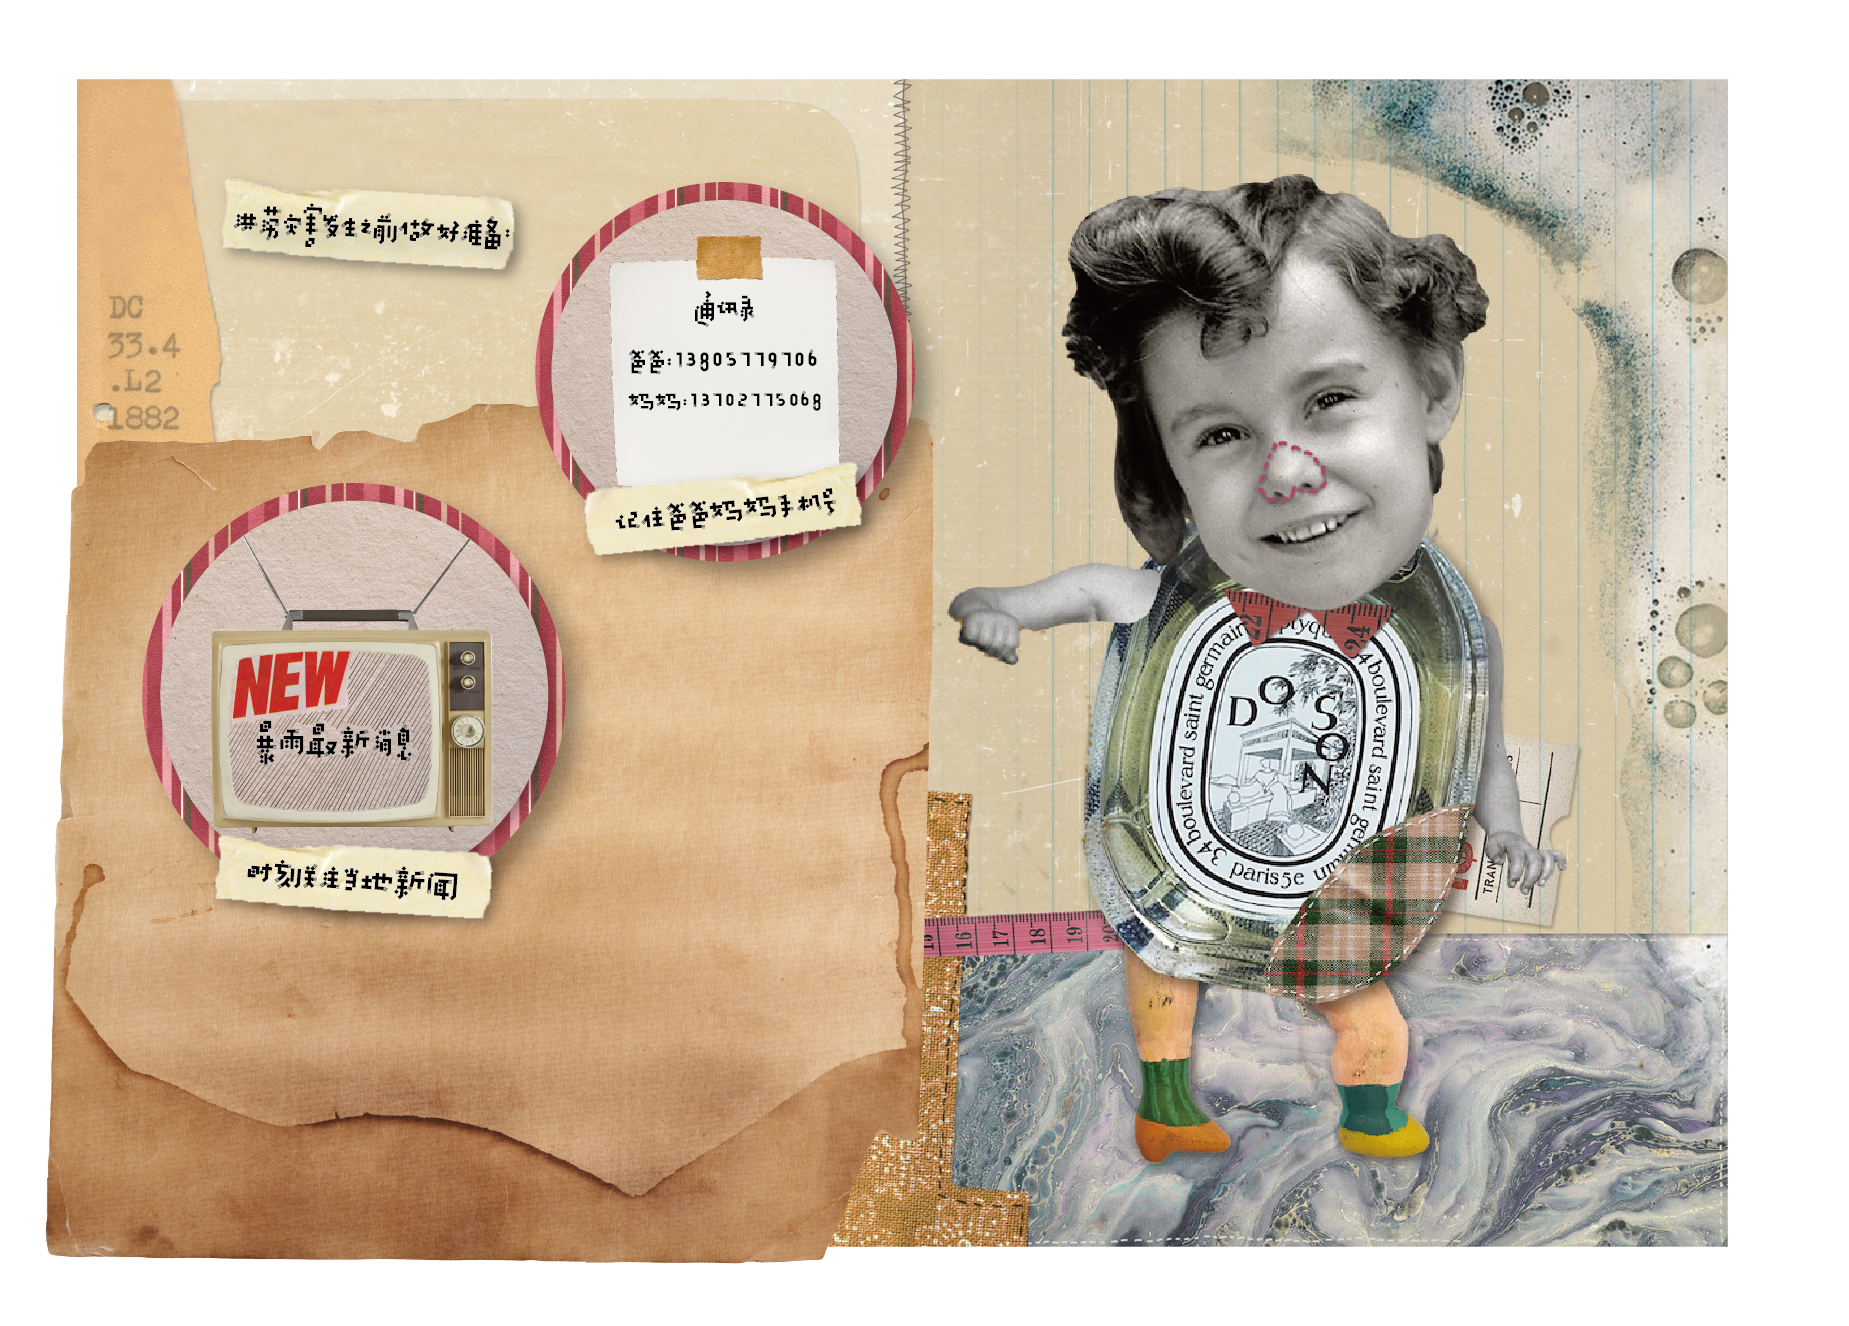
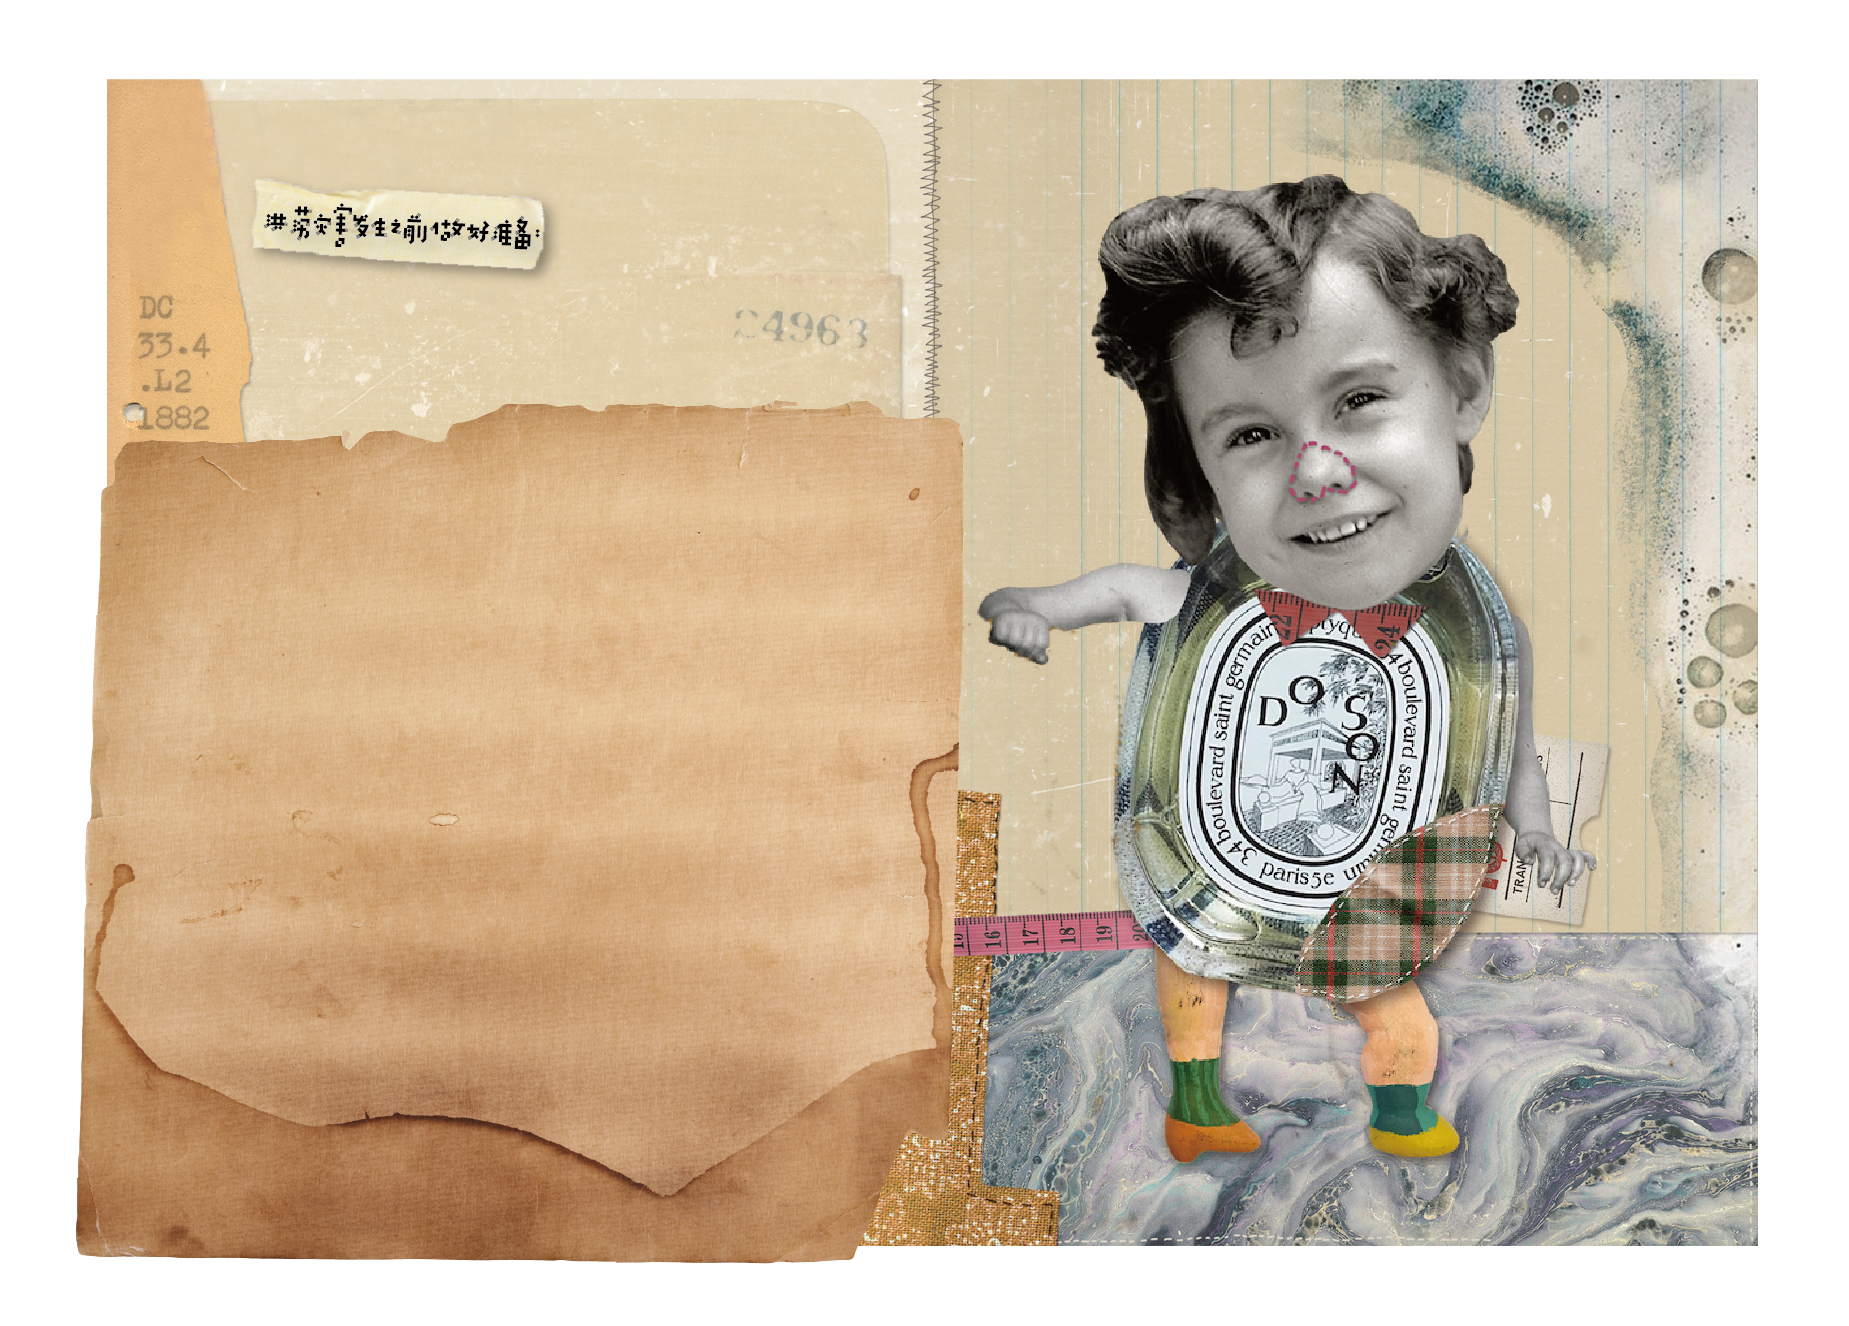
update

diff --git a/src/App.js b/src/App.js
@@ -12,27 +12,42 @@ import bg8 from './Img/8.png';
 import bg9 from './Img/9.png';
 import bg10 from './Img/10.png';
 
-import checklist from './Img/list.jpg';
+import bt21 from './Img/bt21.png';
+import bt22 from './Img/bt22.png';
+import bt23 from './Img/bt23.png';
 
-
-import bt2 from './Img/bt2.png';
 import bt61 from './Img/bt61.png';
+import bt61_right from './Img/bt61_right.png';
 import bt62 from './Img/bt62.png';
+import bt62_right from './Img/bt62_right.png';
 import bt63 from './Img/bt63.png';
+import bt63_right from './Img/bt63_right.png';
 import bt64 from './Img/bt64.png';
+import bt64_wrong from './Img/bt64_wrong.png';
 import bt65 from './Img/bt65.png';
+import bt65_right from './Img/bt65_right.png';
 import bt66 from './Img/bt66.png';
+import bt66_right from './Img/bt66_right.png';
 import bt71 from './Img/bt71.png';
 import bt72 from './Img/bt72.png';
 import bt81 from './Img/bt81.png';
 import bt82 from './Img/bt82.png';
+
+import road_right from './Img/road_right.png';
+import road_wrong from './Img/road_wrong.png';
+import water_right from './Img/water_right.png';
+import water_wrong from './Img/water_wrong.png';
+import bag_wrong from './Img/bag_wrong.png';
+import checklist from './Img/list.jpg';
+import contact from './Img/contact.png';
+import news from './Img/news.png';
 
 
 
 function App() {
 
 	const [isModalOpen, setOpen] = useState(false);
-	const [img, setImg] = useState(bt2);
+	const [img, setImg] = useState(bt21);
 
 	return (
 		<div className="App">
@@ -50,14 +65,36 @@ function App() {
 			</div>
 
 			<div className="Comic" style={{ backgroundImage: `url(${bg2})` }}>
-				<img
-					src={bt2}
-					className="bt2"
-					onClick={s => {
-						setOpen(true);
-						setImg(checklist);//change here
-					}}>
-				</img>
+				<div style={{ position: "absolute", "left": "276px", "top": "82px" }}>
+					<img
+						src={bt21}
+						className="bt2"
+						onClick={s => {
+							setOpen(true);
+							setImg(contact);//change here
+						}}>
+					</img>
+				</div>
+				<div style={{ position: "absolute", "left": "91px", "top": "242px" }}>
+					<img
+						src={bt22}
+						className="bt2"
+						onClick={s => {
+							setOpen(true);
+							setImg(news);//change here
+						}}>
+					</img>
+				</div>
+				<div style={{ position: "absolute", "left": "293px", "top": "390px" }}>
+					<img
+						src={bt23}
+						className="bt2"
+						onClick={s => {
+							setOpen(true);
+							setImg(checklist);//change here
+						}}>
+					</img>
+				</div>
 			</div>
 
 			<div className="Comic" style={{ backgroundImage: `url(${bg3})` }}>
@@ -74,8 +111,9 @@ function App() {
 						src={bt61}
 						className="bt6"
 						onClick={s => {
-							setOpen(true);
-							setImg(bt2);//change here
+							s.currentTarget.src = bt61_right;
+							// console.log(s.pageY);
+							// console.log(s.currentTarget.src = bt62);
 						}}>
 					</img>
 				</div>
@@ -85,8 +123,7 @@ function App() {
 						src={bt62}
 						className="bt6"
 						onClick={s => {
-							setOpen(true);
-							setImg(bt2);//change here
+							s.currentTarget.src = bt62_right;
 						}}>
 					</img>
 				</div>
@@ -95,8 +132,7 @@ function App() {
 						src={bt63}
 						className="bt6"
 						onClick={s => {
-							setOpen(true);
-							setImg(bt2);//change here
+							s.currentTarget.src = bt63_right;
 						}}>
 					</img>
 				</div>
@@ -106,7 +142,9 @@ function App() {
 						className="bt6"
 						onClick={s => {
 							setOpen(true);
-							setImg(bt2);//change here
+							setImg(bag_wrong);
+							s.currentTarget.src = bt64_wrong;
+
 						}}>
 					</img>
 				</div>
@@ -115,8 +153,8 @@ function App() {
 						src={bt65}
 						className="bt6"
 						onClick={s => {
-							setOpen(true);
-							setImg(bt2);//change here
+							s.currentTarget.src = bt65_right;
+
 						}}>
 					</img>
 				</div>
@@ -125,8 +163,8 @@ function App() {
 						src={bt66}
 						className="bt6"
 						onClick={s => {
-							setOpen(true);
-							setImg(bt2);//change here
+							s.currentTarget.src = bt66_right;
+
 						}}>
 					</img>
 				</div>
@@ -139,7 +177,7 @@ function App() {
 						className="bt7"
 						onClick={s => {
 							setOpen(true);
-							setImg(bt2);//change here
+							setImg(road_right);//change here
 						}}>
 					</img>
 				</div>
@@ -150,7 +188,7 @@ function App() {
 						className="bt7"
 						onClick={s => {
 							setOpen(true);
-							setImg(bt2);//change here
+							setImg(road_wrong);//change here
 						}}>
 					</img>
 				</div>
@@ -163,7 +201,7 @@ function App() {
 						className="bt8"
 						onClick={s => {
 							setOpen(true);
-							setImg(bt2);//change here
+							setImg(water_right);//change here
 						}}>
 					</img>
 				</div>
@@ -174,7 +212,7 @@ function App() {
 						className="bt8"
 						onClick={s => {
 							setOpen(true);
-							setImg(bt2);//change here
+							setImg(water_wrong);//change here
 						}}>
 					</img>
 				</div>
@@ -185,7 +223,7 @@ function App() {
 			</div>
 
 			<div className="Comic" style={{ backgroundImage: `url(${bg10})` }}>
-				
+
 			</div>
 
 

diff --git a/public/index.html b/public/index.html
@@ -8,12 +8,6 @@
       name="description"
       content="Web site created using create-react-app"
     />
-    <link rel="apple-touch-icon" href="%PUBLIC_URL%/logo192.png" />
-    <!--
-      manifest.json provides metadata used when your web app is installed on a
-      user's mobile device or desktop. See https://developers.google.com/web/fundamentals/web-app-manifest/
-    -->
-    <link rel="manifest" href="%PUBLIC_URL%/manifest.json" />
     <!--
       Notice the use of %PUBLIC_URL% in the tags above.
       It will be replaced with the URL of the `public` folder during the build.

diff --git a/src/Modal.js b/src/Modal.js
@@ -22,7 +22,7 @@ class Modal extends React.Component {
                 // padding: 20,
                 boxSizing: "border-box",
                 // backgroundColor: "#fff",
-                margin: "100px auto",
+                margin: "200px auto",
                 borderRadius: 3,
                 zIndex: 2,
                 textAlign: "left",

diff --git a/src/App.css b/src/App.css
@@ -9,8 +9,6 @@
 
 .bt2 {
     position: relative;
-    top: 390px;
-    left: -80px;
     width: 219.5px;
     height: auto;
 }
